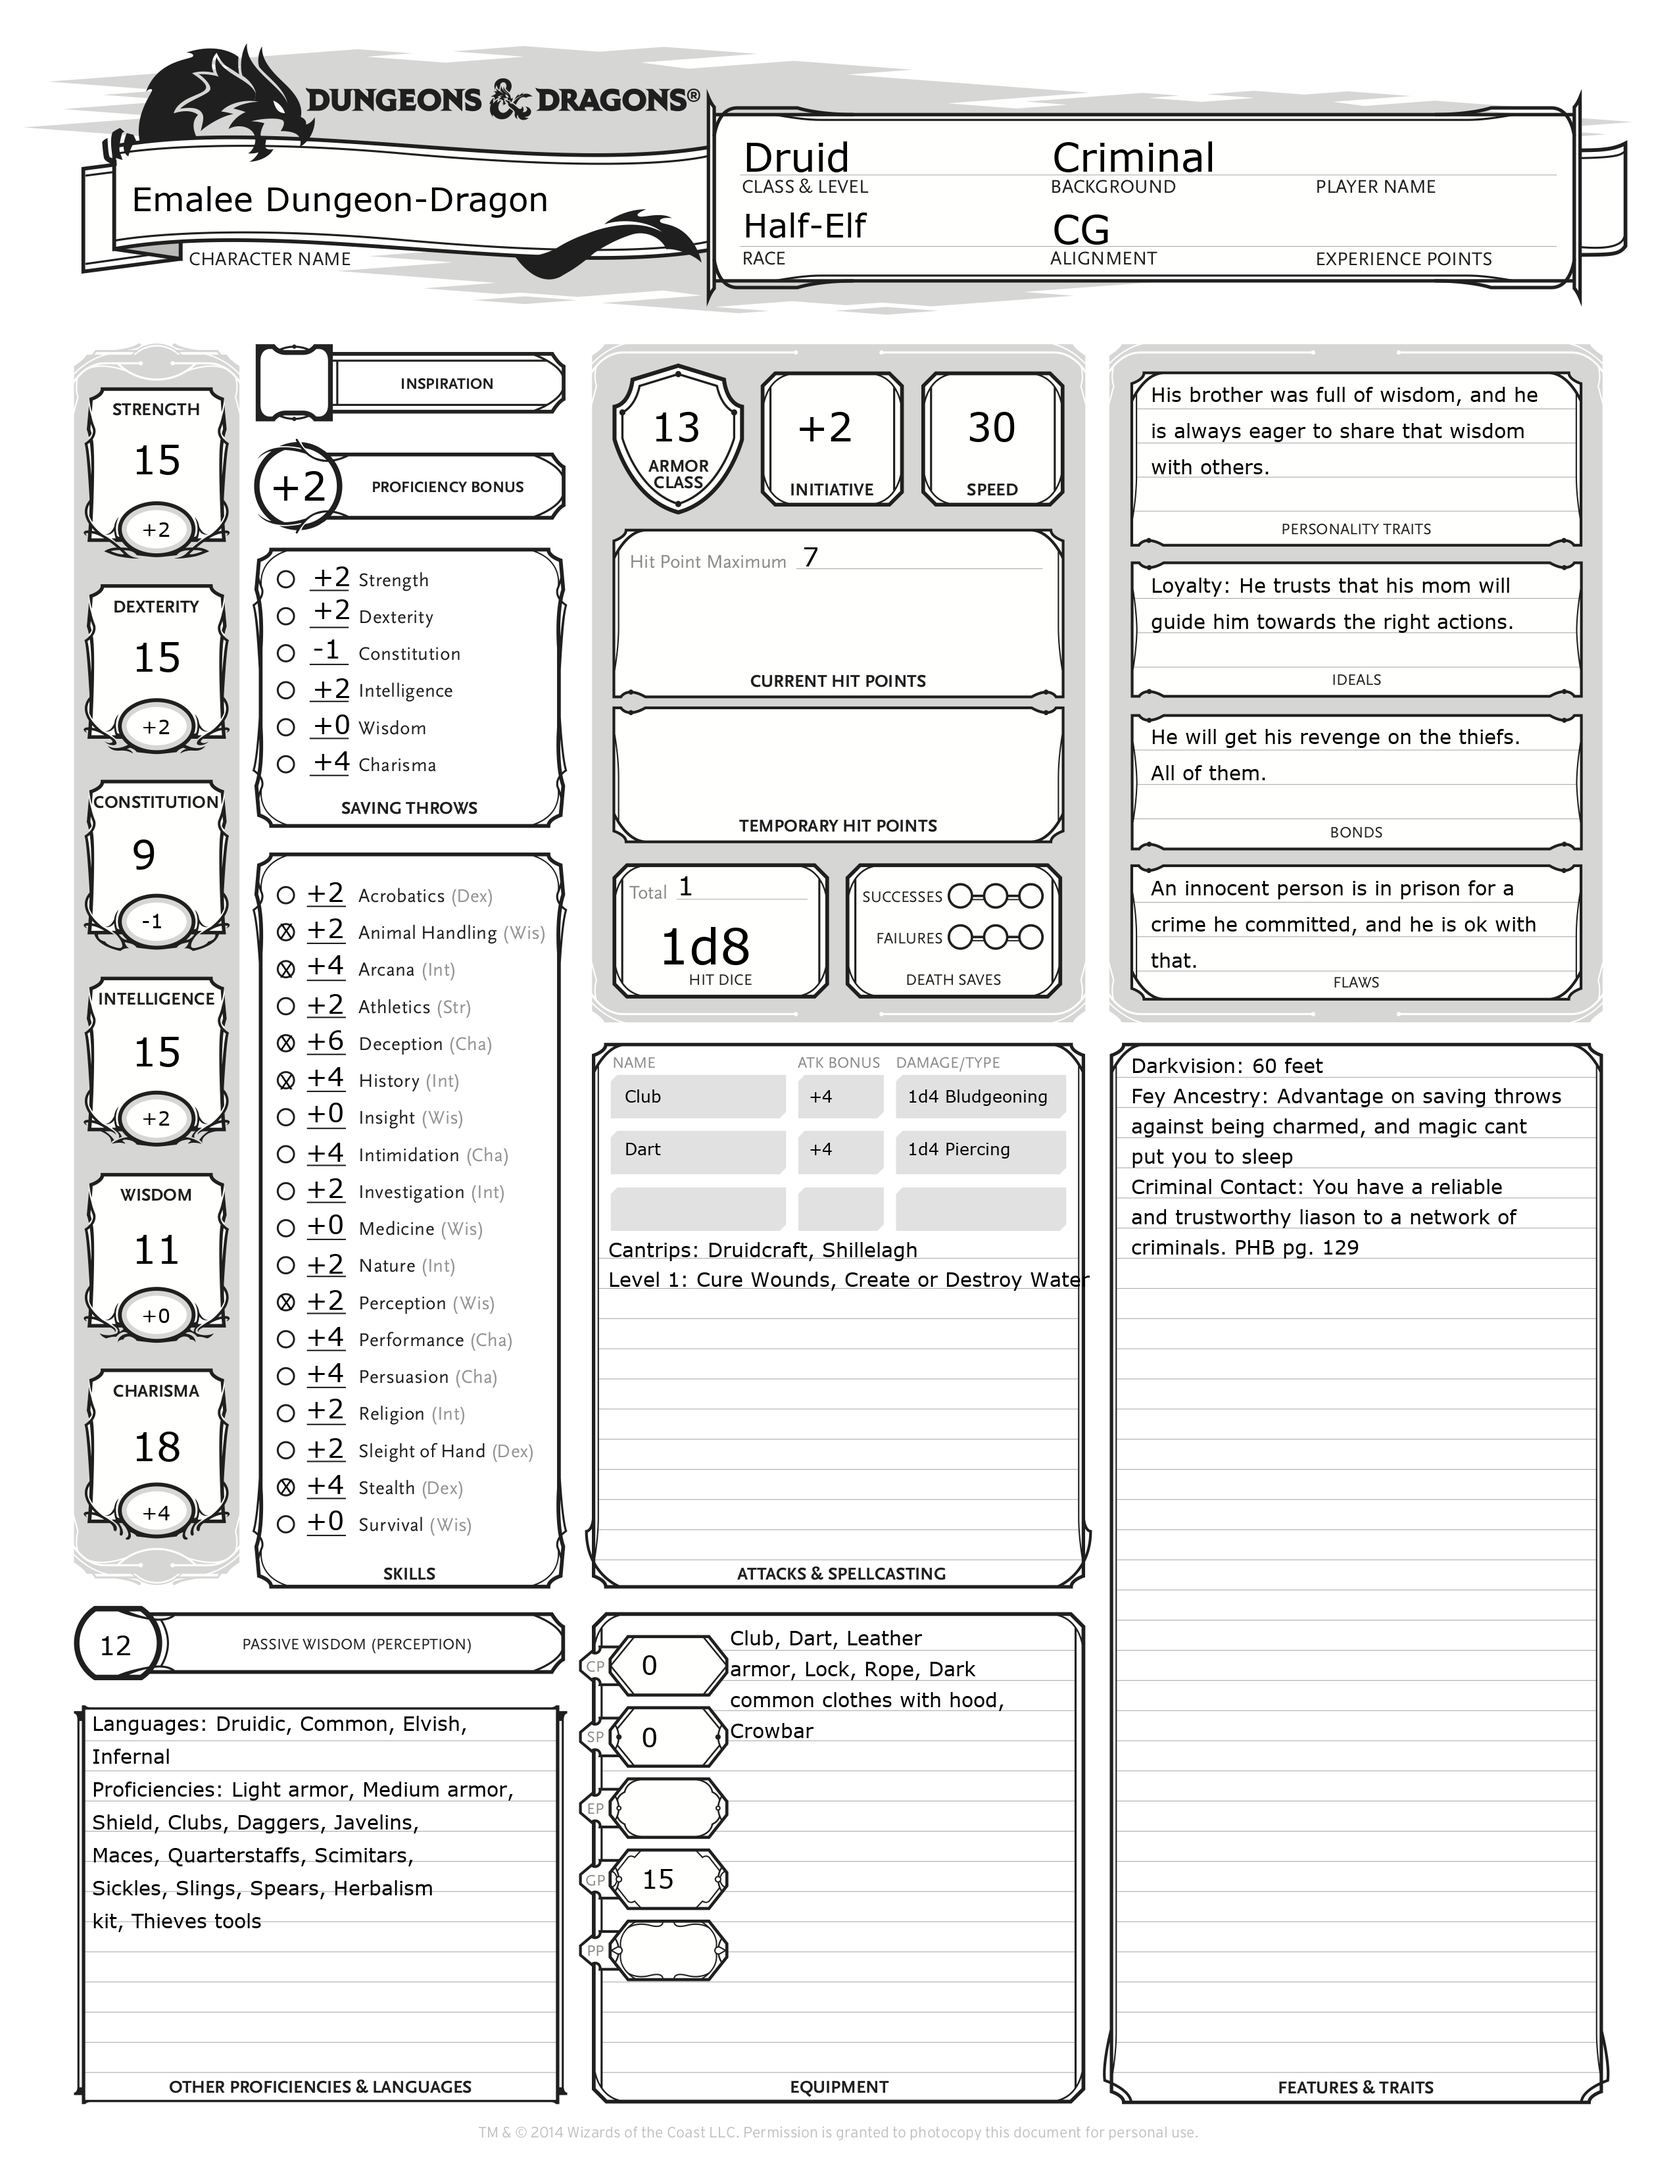
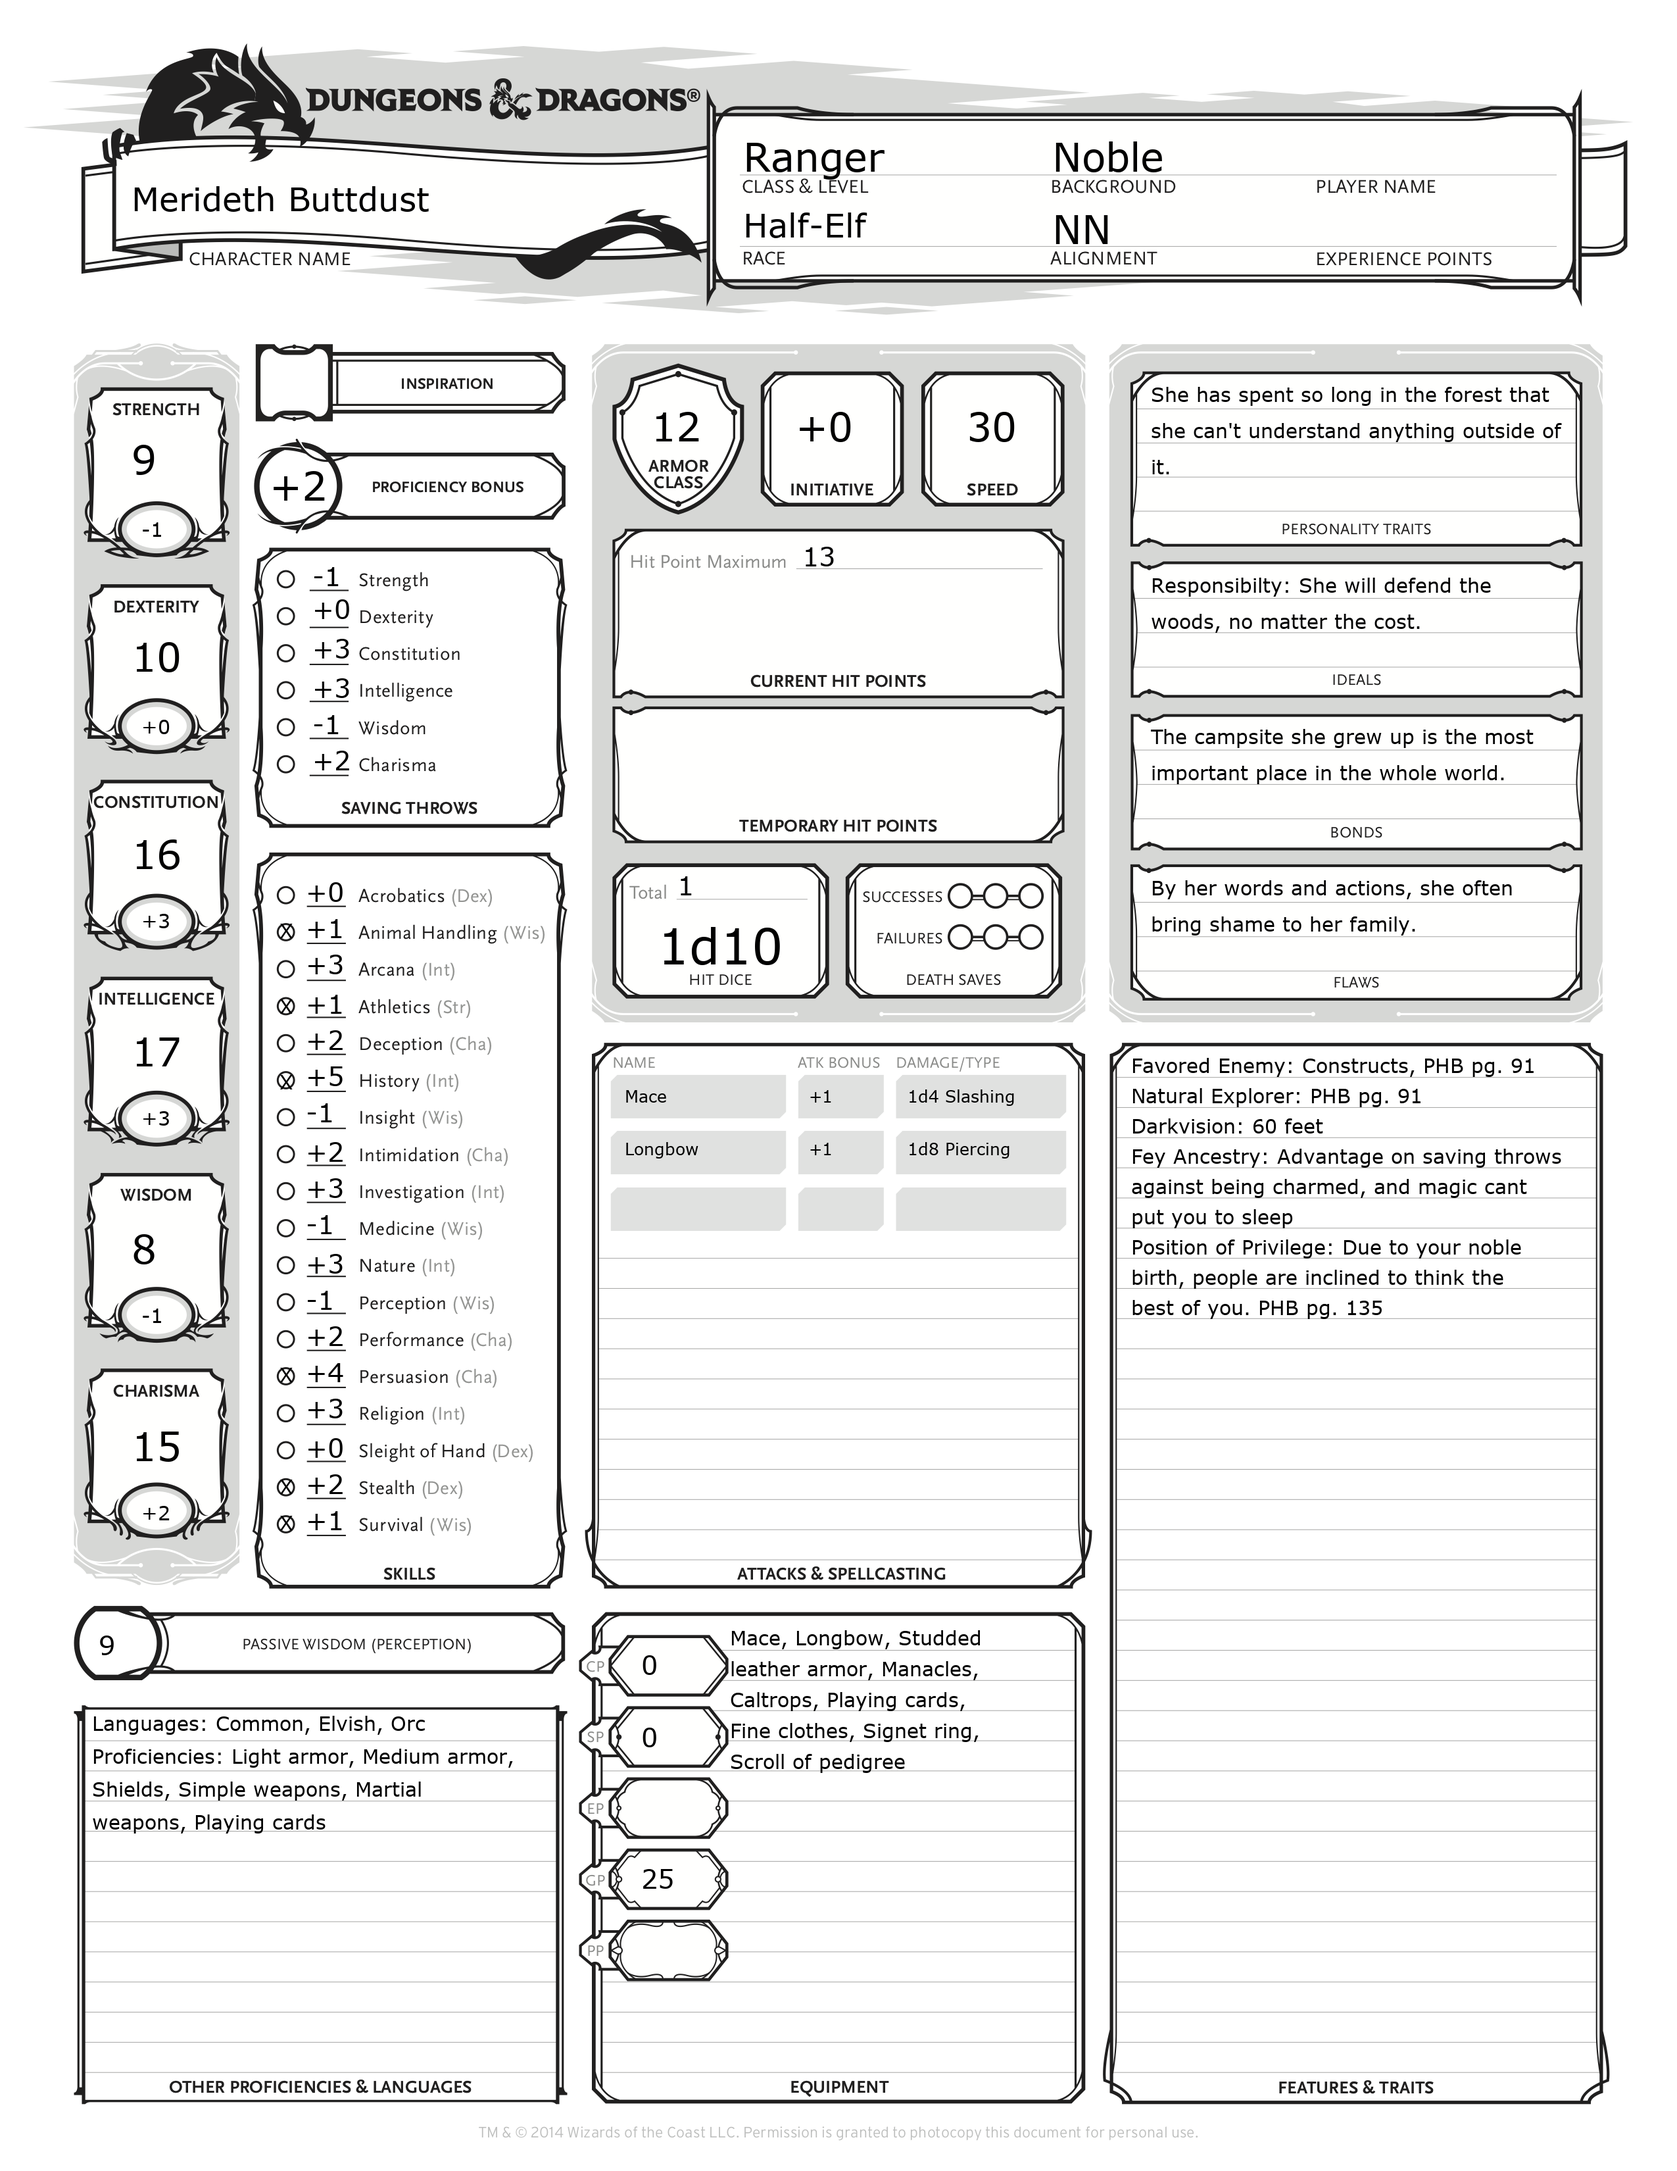
Twitter API working!

diff --git a/testEnvironment.py b/testEnvironment.py
@@ -10,6 +10,7 @@ import backgrounds
 import tracery
 from tracery.modifiers import base_english
 import flavorText
+import twitterBot
 
 
 """
@@ -26,7 +27,7 @@ char = Character()
 img = Image.open(r"C:\Users\wiggi\OneDrive\Documents\CharacterSheetBot\blankSheet.png")
 char.setAbilities()
 char.setClass()
-char.silly = True
+#char.silly = True
 char.setName()
 char.characterClass.classModifiers(char)
 char.setRace()
@@ -64,6 +65,10 @@ writer.writeProficiencies(img, char)
 writer.writeTraits(img, char)
 writer.writeFlavor(img, char)
 img.save(r"C:\Users\wiggi\OneDrive\Documents\CharacterSheetBot\newSheet.png")
+
+#post to twitter
+twitterBot.postSheet(char)
+
 
 #output a bunch of flavor text in order to test for grammatical errors
 File1 = open(r"C:\Users\wiggi\OneDrive\Documents\CharacterSheetBot\textTest.txt","w")

diff --git a/flavorText.py b/flavorText.py
@@ -39,7 +39,7 @@ rules = {
 	],
 	'bond':[
 		'The death of #goodPerson# had a huge impact on how #they# form#s# connections with others.',
-		'The #place# #they# grew up is the most important place in the whole world.',
+		'The #place# #they# grew up in is the most important place in the whole world.',
 		'Everything #they# know#s# about being a #trade#, #they# learned from #goodPerson#.',
 		'Everything #they# #is# doing is to try to earn the love of #goodPerson#.',
 		'One day, #they# will return to #their# home #place# to show everyone how great of a #trade# #they# #is#.',

diff --git a/twitterBot.py b/twitterBot.py
@@ -1,0 +1,12 @@
+import twitter
+import Character
+
+
+api = twitter.Api(consumer_key="cSJeAfgqlrapOZmxwuXh7QWxf",
+                  consumer_secret="IuTEJKzpjrRVCXS59jZSIdjXovU6iIuyJeIwoiGw6aBL3r5WbE",
+                  access_token_key="1237052091929178122-Xl6B9gnoV4c8z0ZGPBhtPO6yQKzX7c",
+                  access_token_secret="hPjYQ0L0e08QfPdm6MgPgwSVEziGpmOSgIevzMlD8Cr24")
+				  
+
+def postSheet(char):
+	api.PostUpdate(char.name + ", " +char.race.name + " " + char.characterClass.name, media=r"C:\Users\wiggi\OneDrive\Documents\CharacterSheetBot\newSheet.png")

diff --git a/backgrounds.py b/backgrounds.py
@@ -167,8 +167,8 @@ class Noble(Background):
 	]
 	flaw= [
 		'#they.capitalize# believe#s# that everyone is beneath #them#.',
-		'#they.capitalize# hide#s# a shameful secret that could ruin #their family forever.',
-		'By #their# words and actions, #they# often bring shame to #their# family.'
+		'#they.capitalize# hide#s# a shameful secret that could ruin #their# family forever.',
+		'By #their# words and actions, #they# often bring#s# shame to #their# family.'
 	]
 	
 class Outlander(Background):
